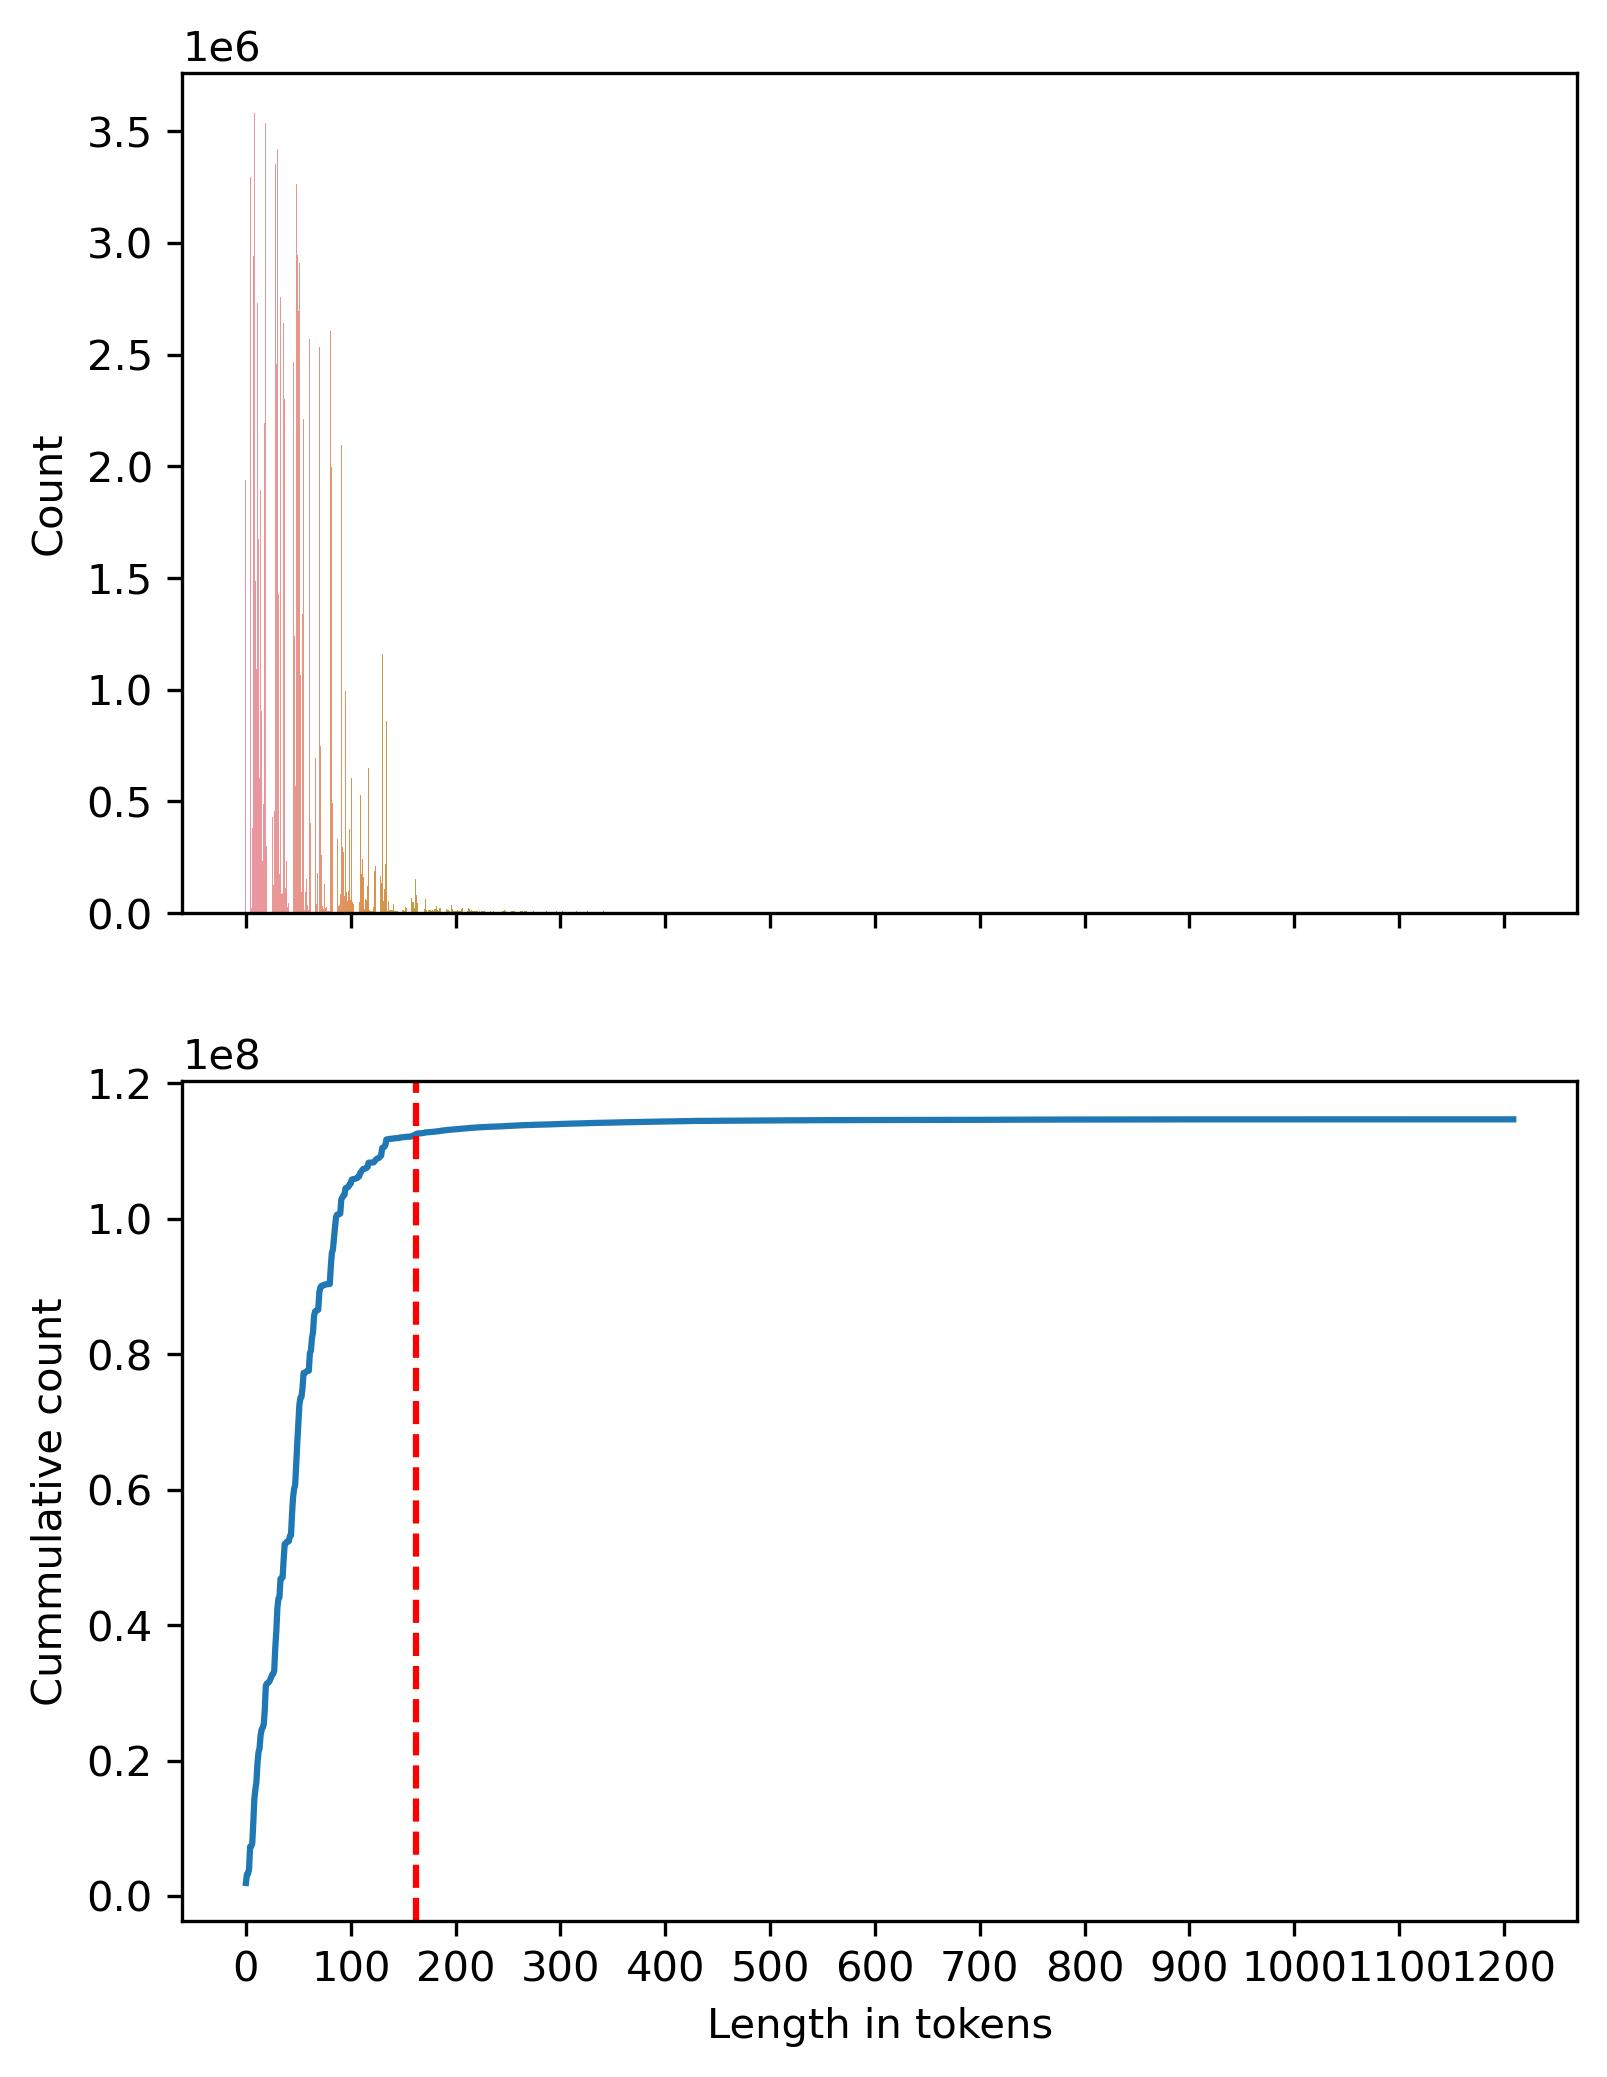
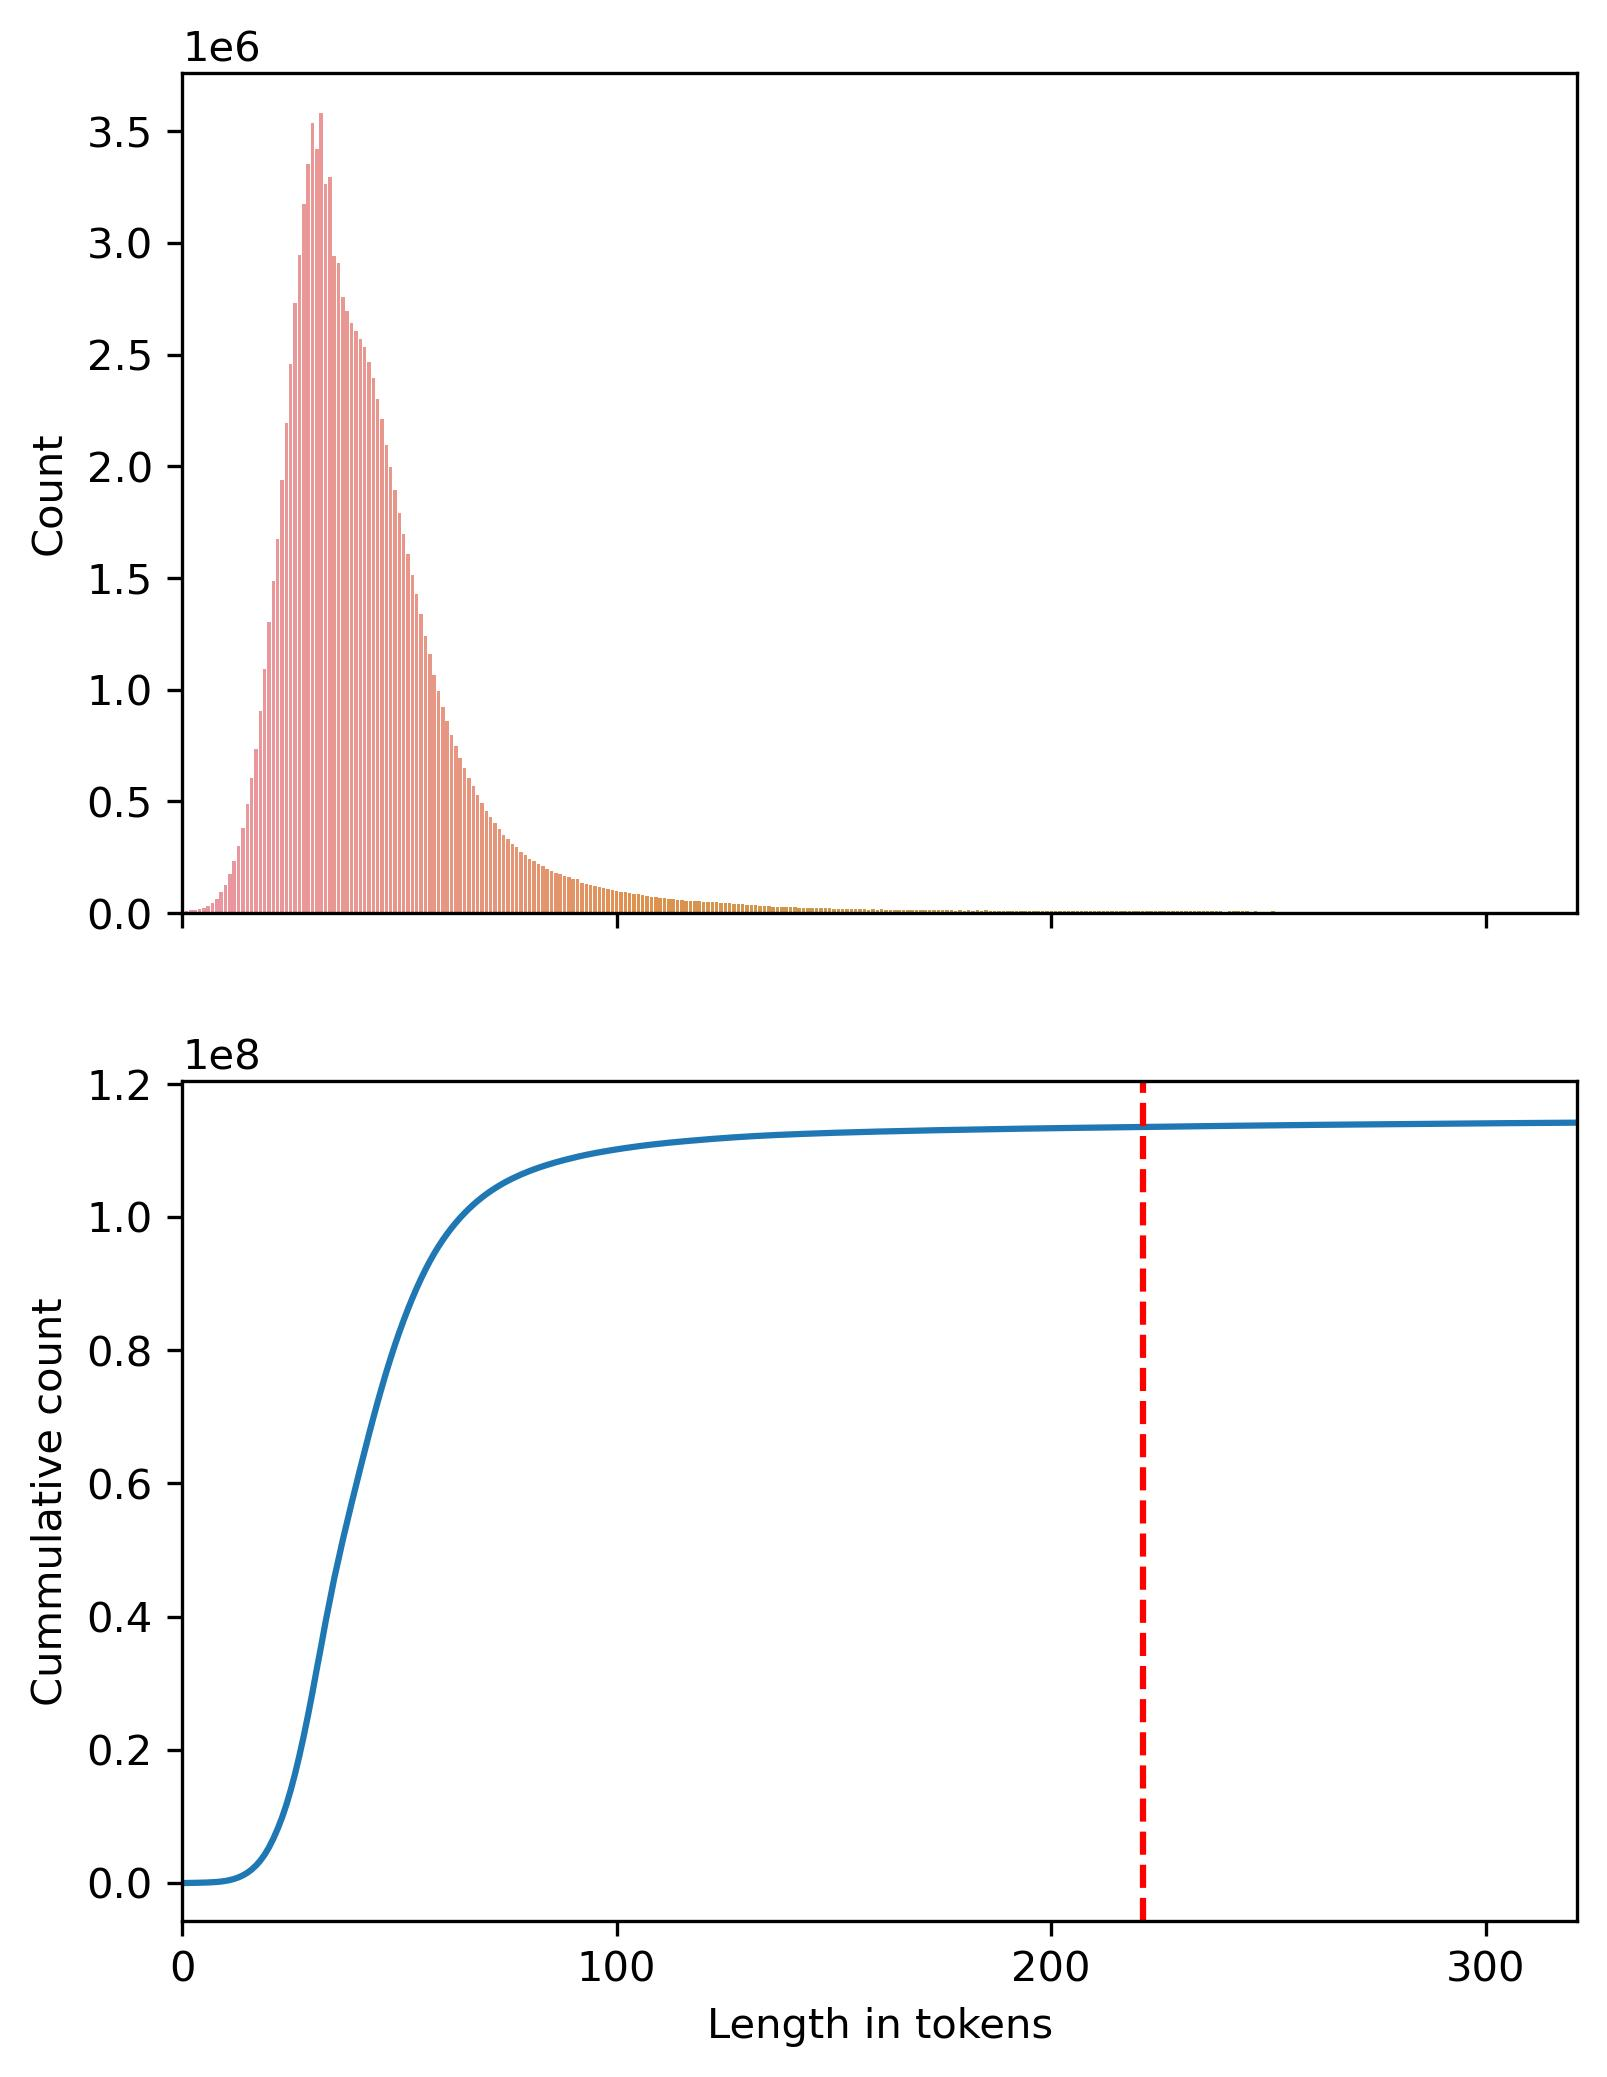
Updates the readme, fixing a bug in the analysis of lengths

diff --git a/src/exploration/lengths_of_molecules.py b/src/exploration/lengths_of_molecules.py
@@ -52,21 +52,28 @@ def plot_histogram(dataset_name: str = "CID-SELFIES"):
     ) as fp:
         lengths = json.load(fp)
 
+    # Sort items by key, and store them in a list
+    lengths = [(int(k), v) for k, v in lengths.items()]
+    lengths = sorted(lengths, key=lambda x: x[0])
+
+    sequence_lengths = np.array([k for k, _ in lengths])
+    sequence_counts = np.array([v for _, v in lengths])
+
     # Plot the histogram
     # sns.set_theme()
     fig, (ax_barplot, ax_cummulative) = plt.subplots(
         2, 1, figsize=(1 * 6, 2 * 4), sharex=True
     )
     sns.barplot(
-        x=np.array(list(lengths.keys())),
-        y=np.array(list(lengths.values())),
+        x=sequence_lengths,
+        y=sequence_counts,
         ax=ax_barplot,
     )
     ax_barplot.set_ylabel("Count")
 
     # Plot the cummulative histogram
-    cummulative = np.cumsum(np.array(list(lengths.values())))
-    sns.lineplot(x=np.array(list(lengths.keys())), y=cummulative, ax=ax_cummulative)
+    cummulative = np.cumsum(sequence_counts)
+    sns.lineplot(x=sequence_lengths, y=cummulative, ax=ax_cummulative)
     ax_cummulative.set_ylabel("Cummulative count")
     ax_cummulative.set_xlabel("Length in tokens")
 
@@ -77,17 +84,20 @@ def plot_histogram(dataset_name: str = "CID-SELFIES"):
     ax_barplot.set_xticklabels(xticks[::100])
 
     # Determining where 99% of the data is
-    count_pairs_ordered = sorted(lengths.items(), key=lambda x: x[0])
-    total_count = np.sum(np.array(list(lengths.values())))
+    total_count = np.sum(sequence_counts)
     cummulative_count = 0
-    for i, (length, count) in enumerate(count_pairs_ordered):
-        cummulative_count += count
+    for seq_length, seq_count in zip(sequence_lengths, sequence_counts):
+        cummulative_count += seq_count
         if cummulative_count / total_count > 0.99:
-            print(f"99% of the data is in molecules of length  <= {length}")
+            print(f"99% of the data is in molecules of length  <= {seq_length}")
             break
+    ax_barplot.set_xlim([0, seq_length + 100])
+
+    # Print the length of the longest sequence
+    print(f"The longest sequence has length {sequence_lengths[-1]}")
 
     # Drawing a vertical line at the 99% mark
-    ax_cummulative.axvline(x=length, color="red", linestyle="--")
+    ax_cummulative.axvline(x=seq_length, color="red", linestyle="--")
 
     fig.savefig(
         ROOT_DIR / "static" / f"hist_of_lengths_{dataset_name}.jpg",

diff --git a/readme.md b/readme.md
@@ -42,7 +42,7 @@ This figure shows the size of these datasets **in log-scale**.
 
 ![Dataset sizes](static/barplot.jpg)
 
-We can also take a look at the distribution of sequence lengths. The following plot shows how most of the mass of token lengths is concentrated below 91 tokens.
+We can also take a look at the distribution of sequence lengths. The following plot shows how most of the mass of token lengths (99%) is concentrated below 221 tokens. We truncate at 320, but the maximum sequence length is 1840.
 
 ![Lengths of sequences](static/hist_of_lengths_CID-SELFIES.jpg)
 
